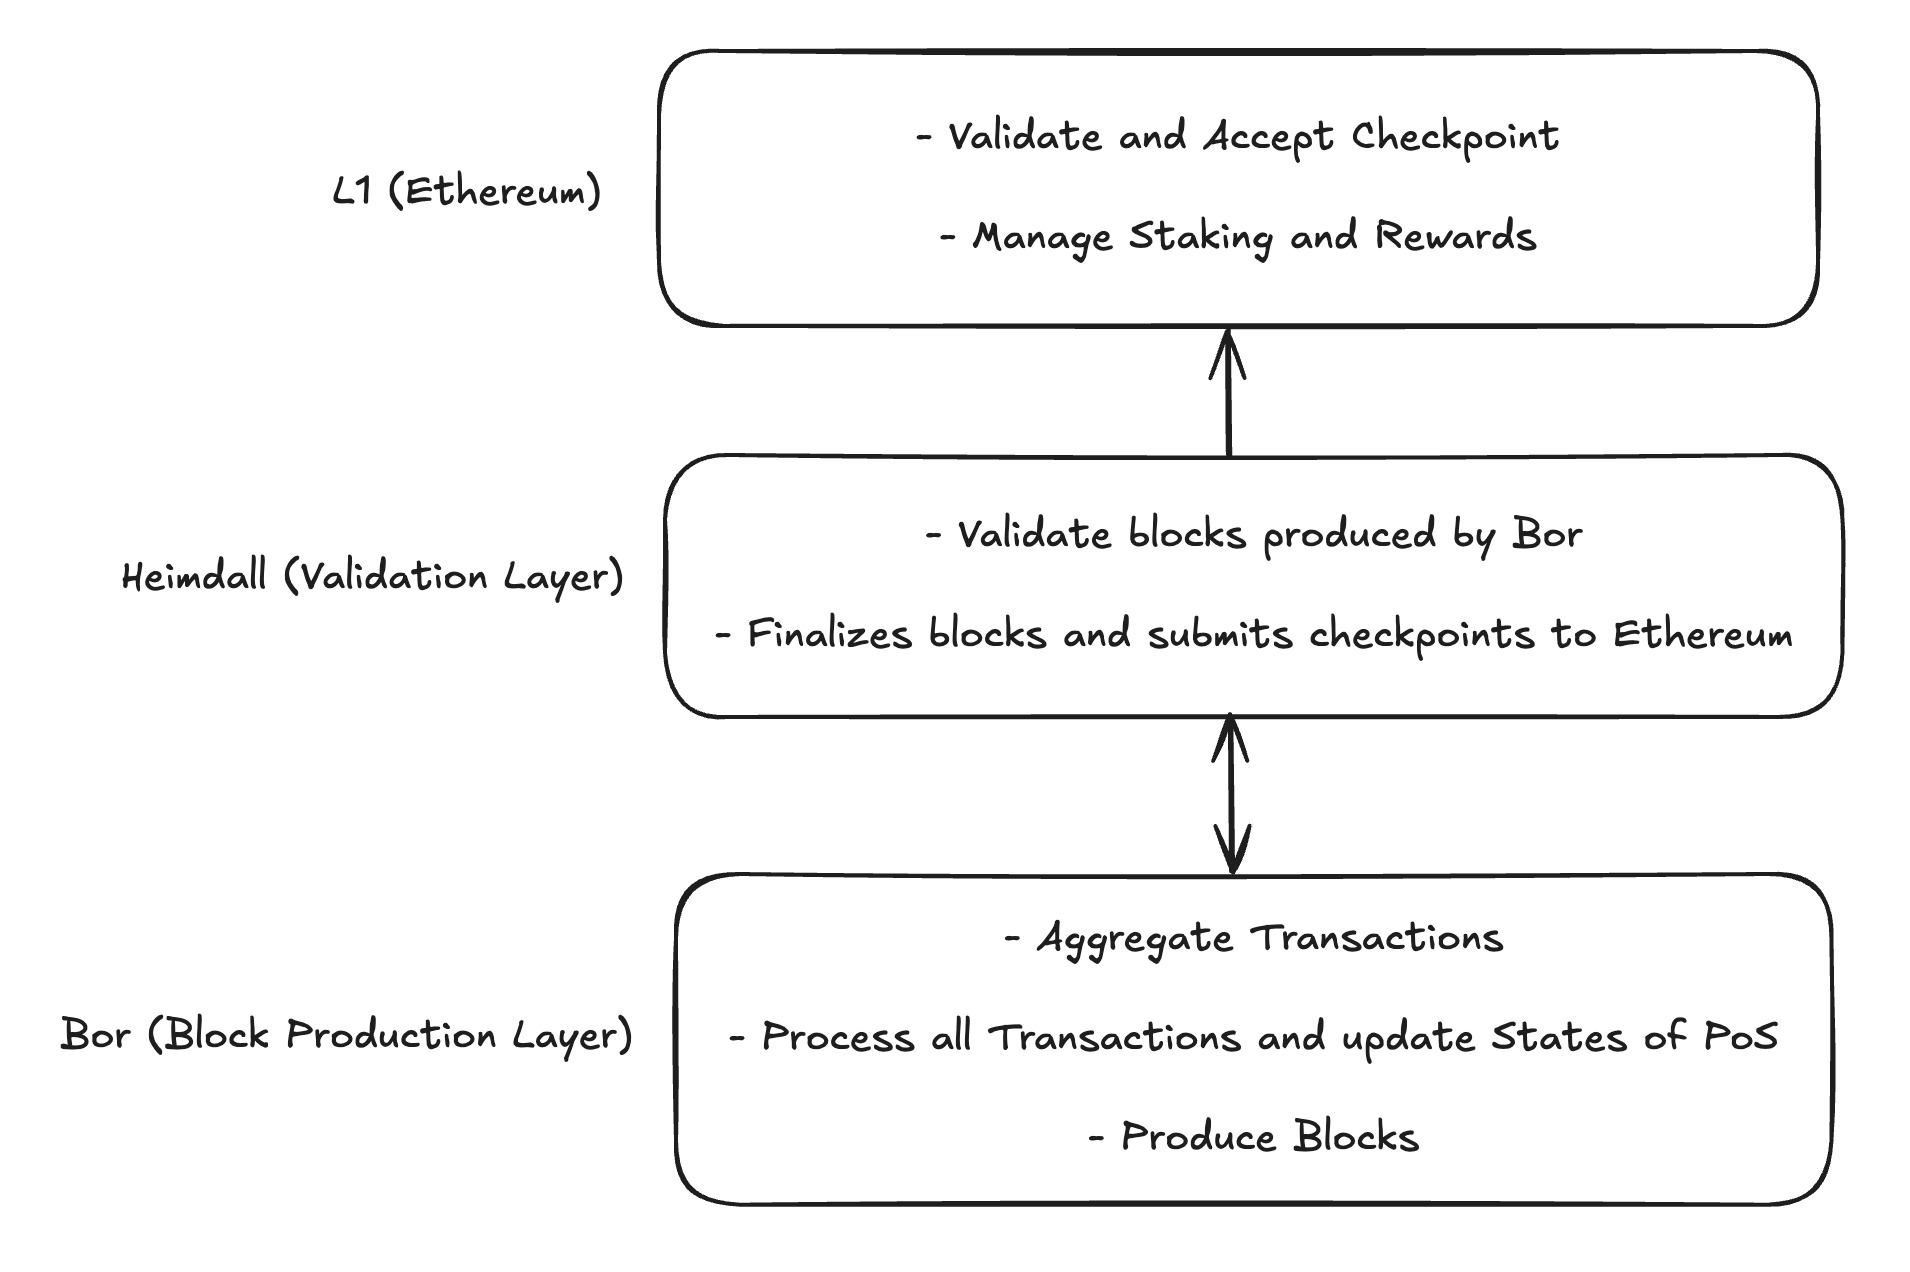
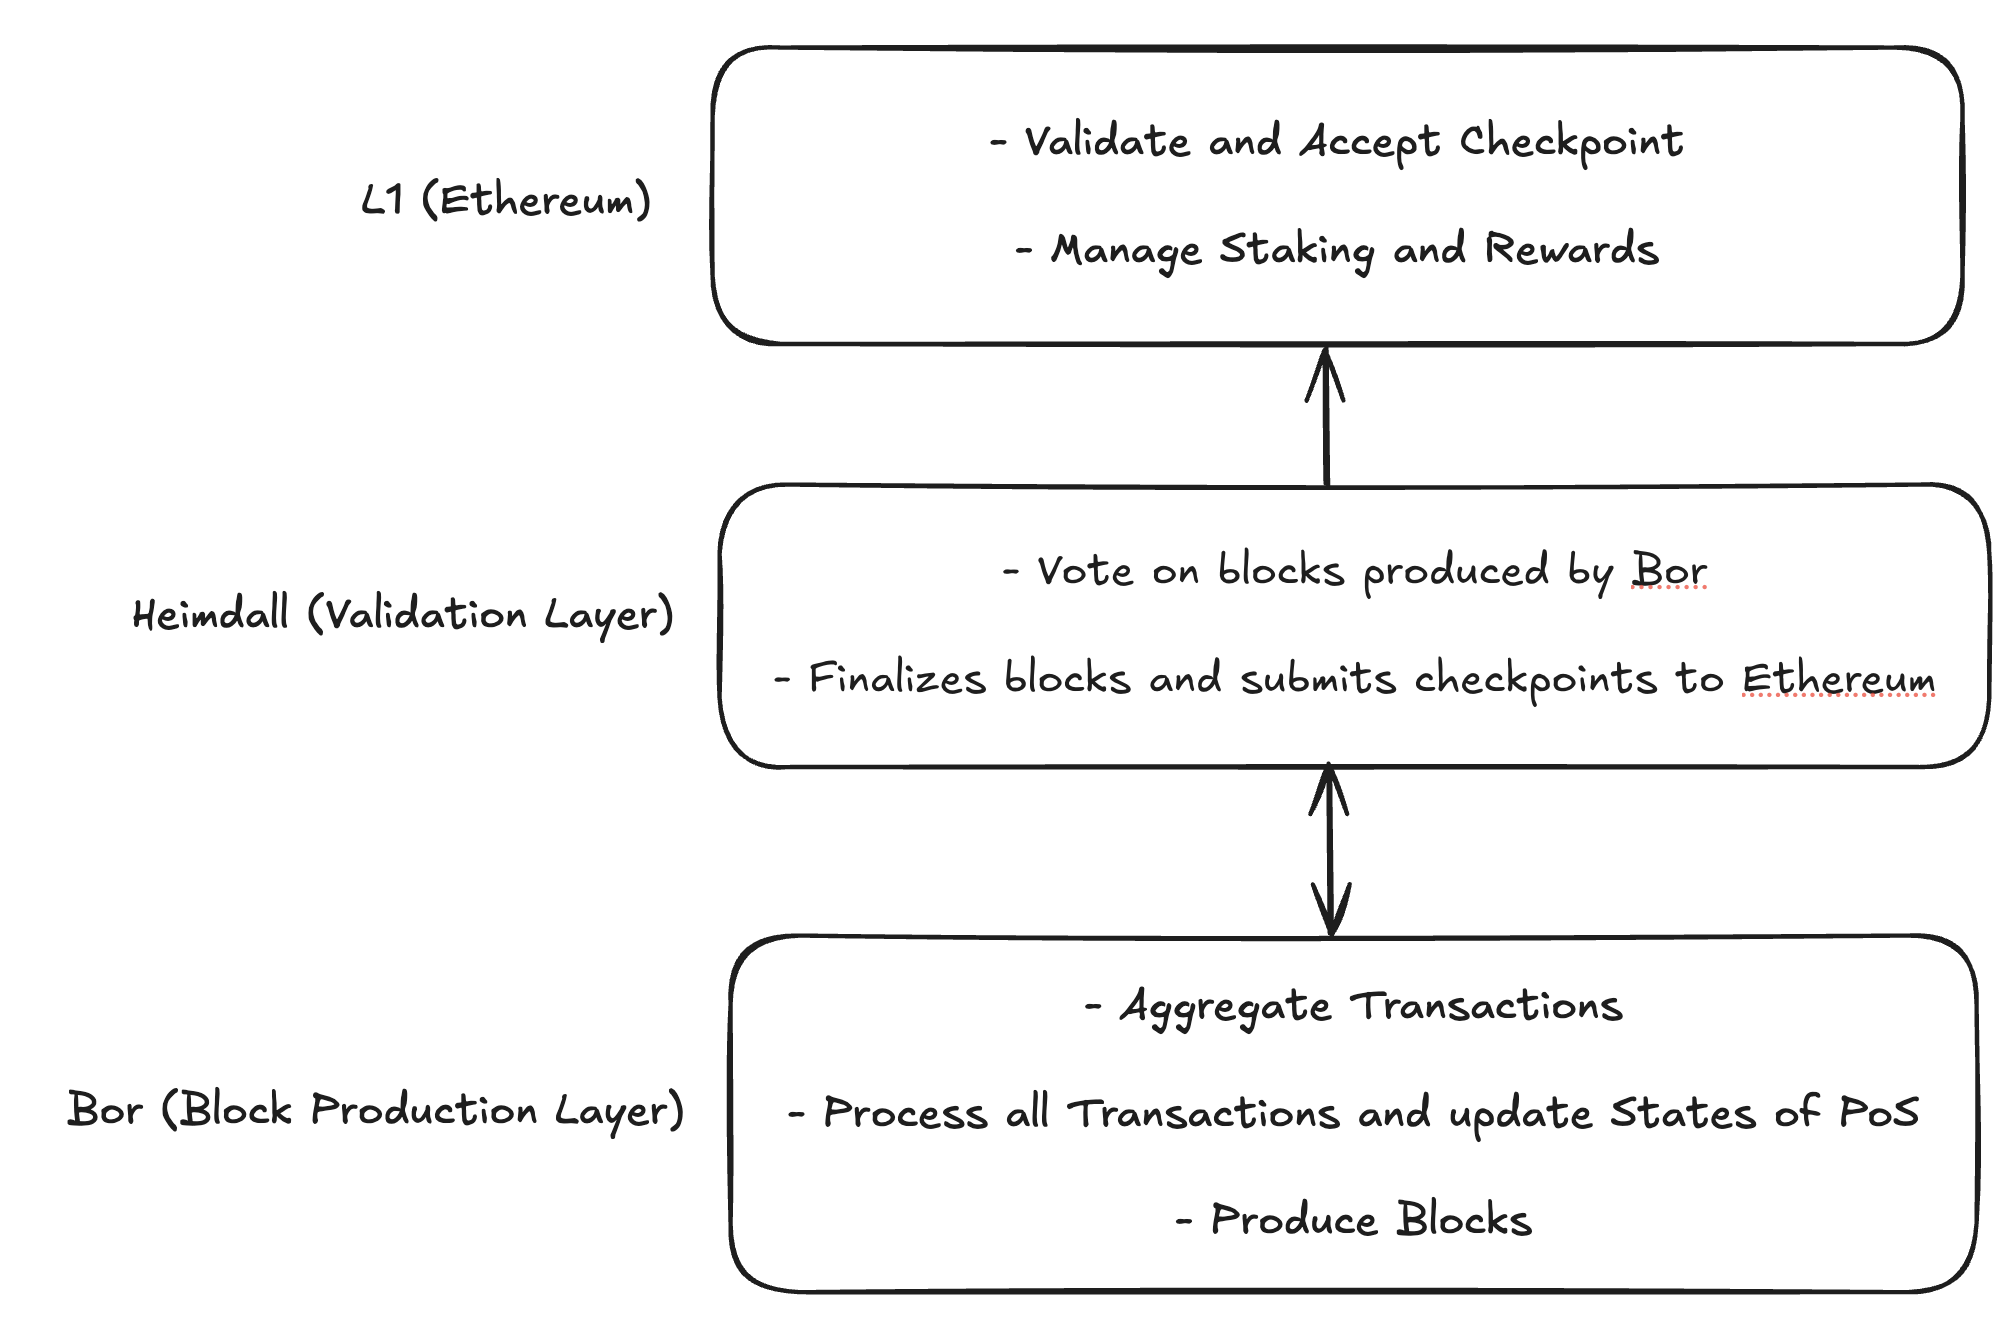
fix terminology on PoS finalized versus latest

diff --git a/milestones.ts b/milestones.ts
@@ -7,10 +7,8 @@ async function pre_milestones_checkFinality(client: any, txHash: string): Promis
   if (!tx || !tx.blockNumber) return false
   const latestBlock: Block = await client.getBlock({ blockTag: 'finalized' })
 
-  console.log(`Latest finalized block: ${latestBlock.number}`)
+  console.log(`Latest block: \t\t${latestBlock.number}`)
   console.log(`Your transaction block: ${tx.blockNumber}`)
-  console.log(`Blocks passed since your transaction: ${latestBlock.number !== null ? latestBlock.number - tx.blockNumber : 'N/A'}\n`)
-
 
   if (latestBlock.number !== null && latestBlock.number - tx.blockNumber >= 256) {
     return true
@@ -22,18 +20,20 @@ async function pre_milestones_checkFinality(client: any, txHash: string): Promis
 async function milestones_checkFinality(client: any, txHash: string): Promise<boolean> {
   const tx = await client.getTransaction({ hash: `0x${txHash}` })
   if (!tx || !tx.blockNumber) return false
-  const latestBlock: Block = await client.getBlock({ blockTag: 'finalized' })
+  const latestBlock: Block = await client.getBlock({ blockTag: 'latest' })
+  const finalizedBlock: Block = await client.getBlock({ blockTag: 'finalized' })
 
-  console.log(`Latest finalized block: ${latestBlock.number}`)
+  console.log(`Latest block: \t\t${latestBlock.number}`)
+  console.log(`Latest Finalized block: ${finalizedBlock.number}`)
   console.log(`Your transaction block: ${tx.blockNumber}`)
-  console.log(`Blocks passed since your transaction: ${latestBlock.number !== null ? latestBlock.number - tx.blockNumber : 'N/A'}\n`)
 
-  if (latestBlock.number !== null && latestBlock.number > tx.blockNumber) {
+  if (finalizedBlock.number !== null && finalizedBlock.number > tx.blockNumber) {
     return true
   } else {
     return false
   }
 }
+
 async function main() {
   program
     .requiredOption('-t, --txHash <string>', 'Transaction hash')

diff --git a/README.md b/README.md
@@ -59,13 +59,13 @@ Finality achieved after 256 blocks (approx. 10 minutes)
 
 With the introduction of milestones:
 
-- Finality is **deterministic** even before a checkpoint is submitted to L1. After a certain number of blocks (minimum 12), a milestone is proposed and validated by Heimdall. Once 2/3+ of the network agrees, the milestone is finalized, and all transactions up to that milestone are considered final, with no chance of reorganization.
+- Finality is **deterministic** even before a checkpoint is submitted to L1. After a certain number of blocks (minimum 12), a milestone is proposed and voted by Heimdall. Once 2/3+ of the network agrees, the milestone is finalized, and all transactions up to that milestone are considered final, with no chance of reorganization.
 
 - Separation of Checkpoints and Milestones: Checkpoints still occur every 256 blocks (minimum) and are submitted to Ethereum. However, milestones provide much faster finality on the Polygon chain itself, using Heimdall layer for finalization, improving the user experience significantly.
 
 ![Finality After Milestones](./pics/milestones.png)
 
-Finality achieved after at least 12 blocks confirmation and 4 blocks of buffer, as well as a consensus period among the validators (approx. 1-2 minute)
+Finality achieved after at least 12 blocks confirmation and 4 blocks of buffer, as well as a voting period among the validators (approx. 1-2 minute)
 
 ### 3.2 Using the Milestone API
 
@@ -85,10 +85,9 @@ async function pre_milestones_checkFinality(client: any, txHash: string): Promis
   if (!tx || !tx.blockNumber) return false
   const latestBlock: Block = await client.getBlock({ blockTag: 'finalized' })
 
-  console.log(`Latest finalized block: ${latestBlock.number}`)
+  console.log(`Latest block: \t\t${latestBlock.number}`)
   console.log(`Your transaction block: ${tx.blockNumber}`)
 
-  // Checking whether there has been 256 blocks since the transaction was included in a block
   if (latestBlock.number !== null && latestBlock.number - tx.blockNumber >= 256) {
     return true
   } else {
@@ -102,13 +101,14 @@ Here's the implementation of Checking Transaction Finality AFTER Milestones Impl
 async function milestones_checkFinality(client: any, txHash: string): Promise<boolean> {
   const tx = await client.getTransaction({ hash: `0x${txHash}` })
   if (!tx || !tx.blockNumber) return false
-  const latestBlock: Block = await client.getBlock({ blockTag: 'finalized' })
+  const latestBlock: Block = await client.getBlock({ blockTag: 'latest' })
+  const finalizedBlock: Block = await client.getBlock({ blockTag: 'finalized' })
 
-  console.log(`Latest finalized block: ${latestBlock.number}`)
+  console.log(`Latest block: \t\t${latestBlock.number}`)
+  console.log(`Latest Finalized block: ${finalizedBlock.number}`)
   console.log(`Your transaction block: ${tx.blockNumber}`)
 
-  // Checking whether the finalized block number via milestones has reached the transaction block number.
-  if (latestBlock.number !== null && latestBlock.number > tx.blockNumber) {
+  if (finalizedBlock.number !== null && finalizedBlock.number > tx.blockNumber) {
     return true
   } else {
     return false
@@ -139,13 +139,26 @@ async function milestones_checkFinality(client: any, txHash: string): Promise<bo
 
 The results should show whether the transaction has been finalized based on the selected milestone mechanism and network.
 Usually Milestones will taking 1-2 minutes to finalize the transaction. Result as follows:
-![milestones_result](./pics/milestones_result.png)
+
+#### Milestones Example
+
+When the transaction is still pending, the `milestones_checkFinality` function will show the following:
+![milestones_result](./pics/milestones_pending.png)
+
+When the transaction is finalized, the `milestones_checkFinality` function will show the following:
+![milestones_result](./pics/milestones_succeed.png)
+
+As you can see, there's always few blocks difference between latest block and finalized block, which is the buffer and the voting period for the milestone. Once the finalized block is higher than the transaction block, the transaction is considered finalized.
+
+#### Pre-Milestones Example
 
 Here's a screenshot of the `pre_milestones_checkFinality` function, where it shows that the new blocks are not yet 256:
-![pre_milestones_result](./pics/pre_milestones_result.png)
+![pre_milestones_result](./pics/pre_milestones_pending.png)
 
 Here's a screenshot of the `pre_milestones_checkFinality` function, where it shows that the new blocks are 256:
-![pre_milestones_finalized](./pics/pre_milestones_result_finalized.png)
+![pre_milestones_finalized](./pics/pre_milestones_succeed.png)
+
+As you can see, there's no finalized block in the pre-milestones implementation, so the transaction is considered finalized once the new blocks are 256, aka the latest block is 256 blocks higher than the transaction block.
 
 ### 3.4 Experimenting Further
 Modify the code to check different transactions and networks to see how finality is achieved with milestones on various Polygon networks.
